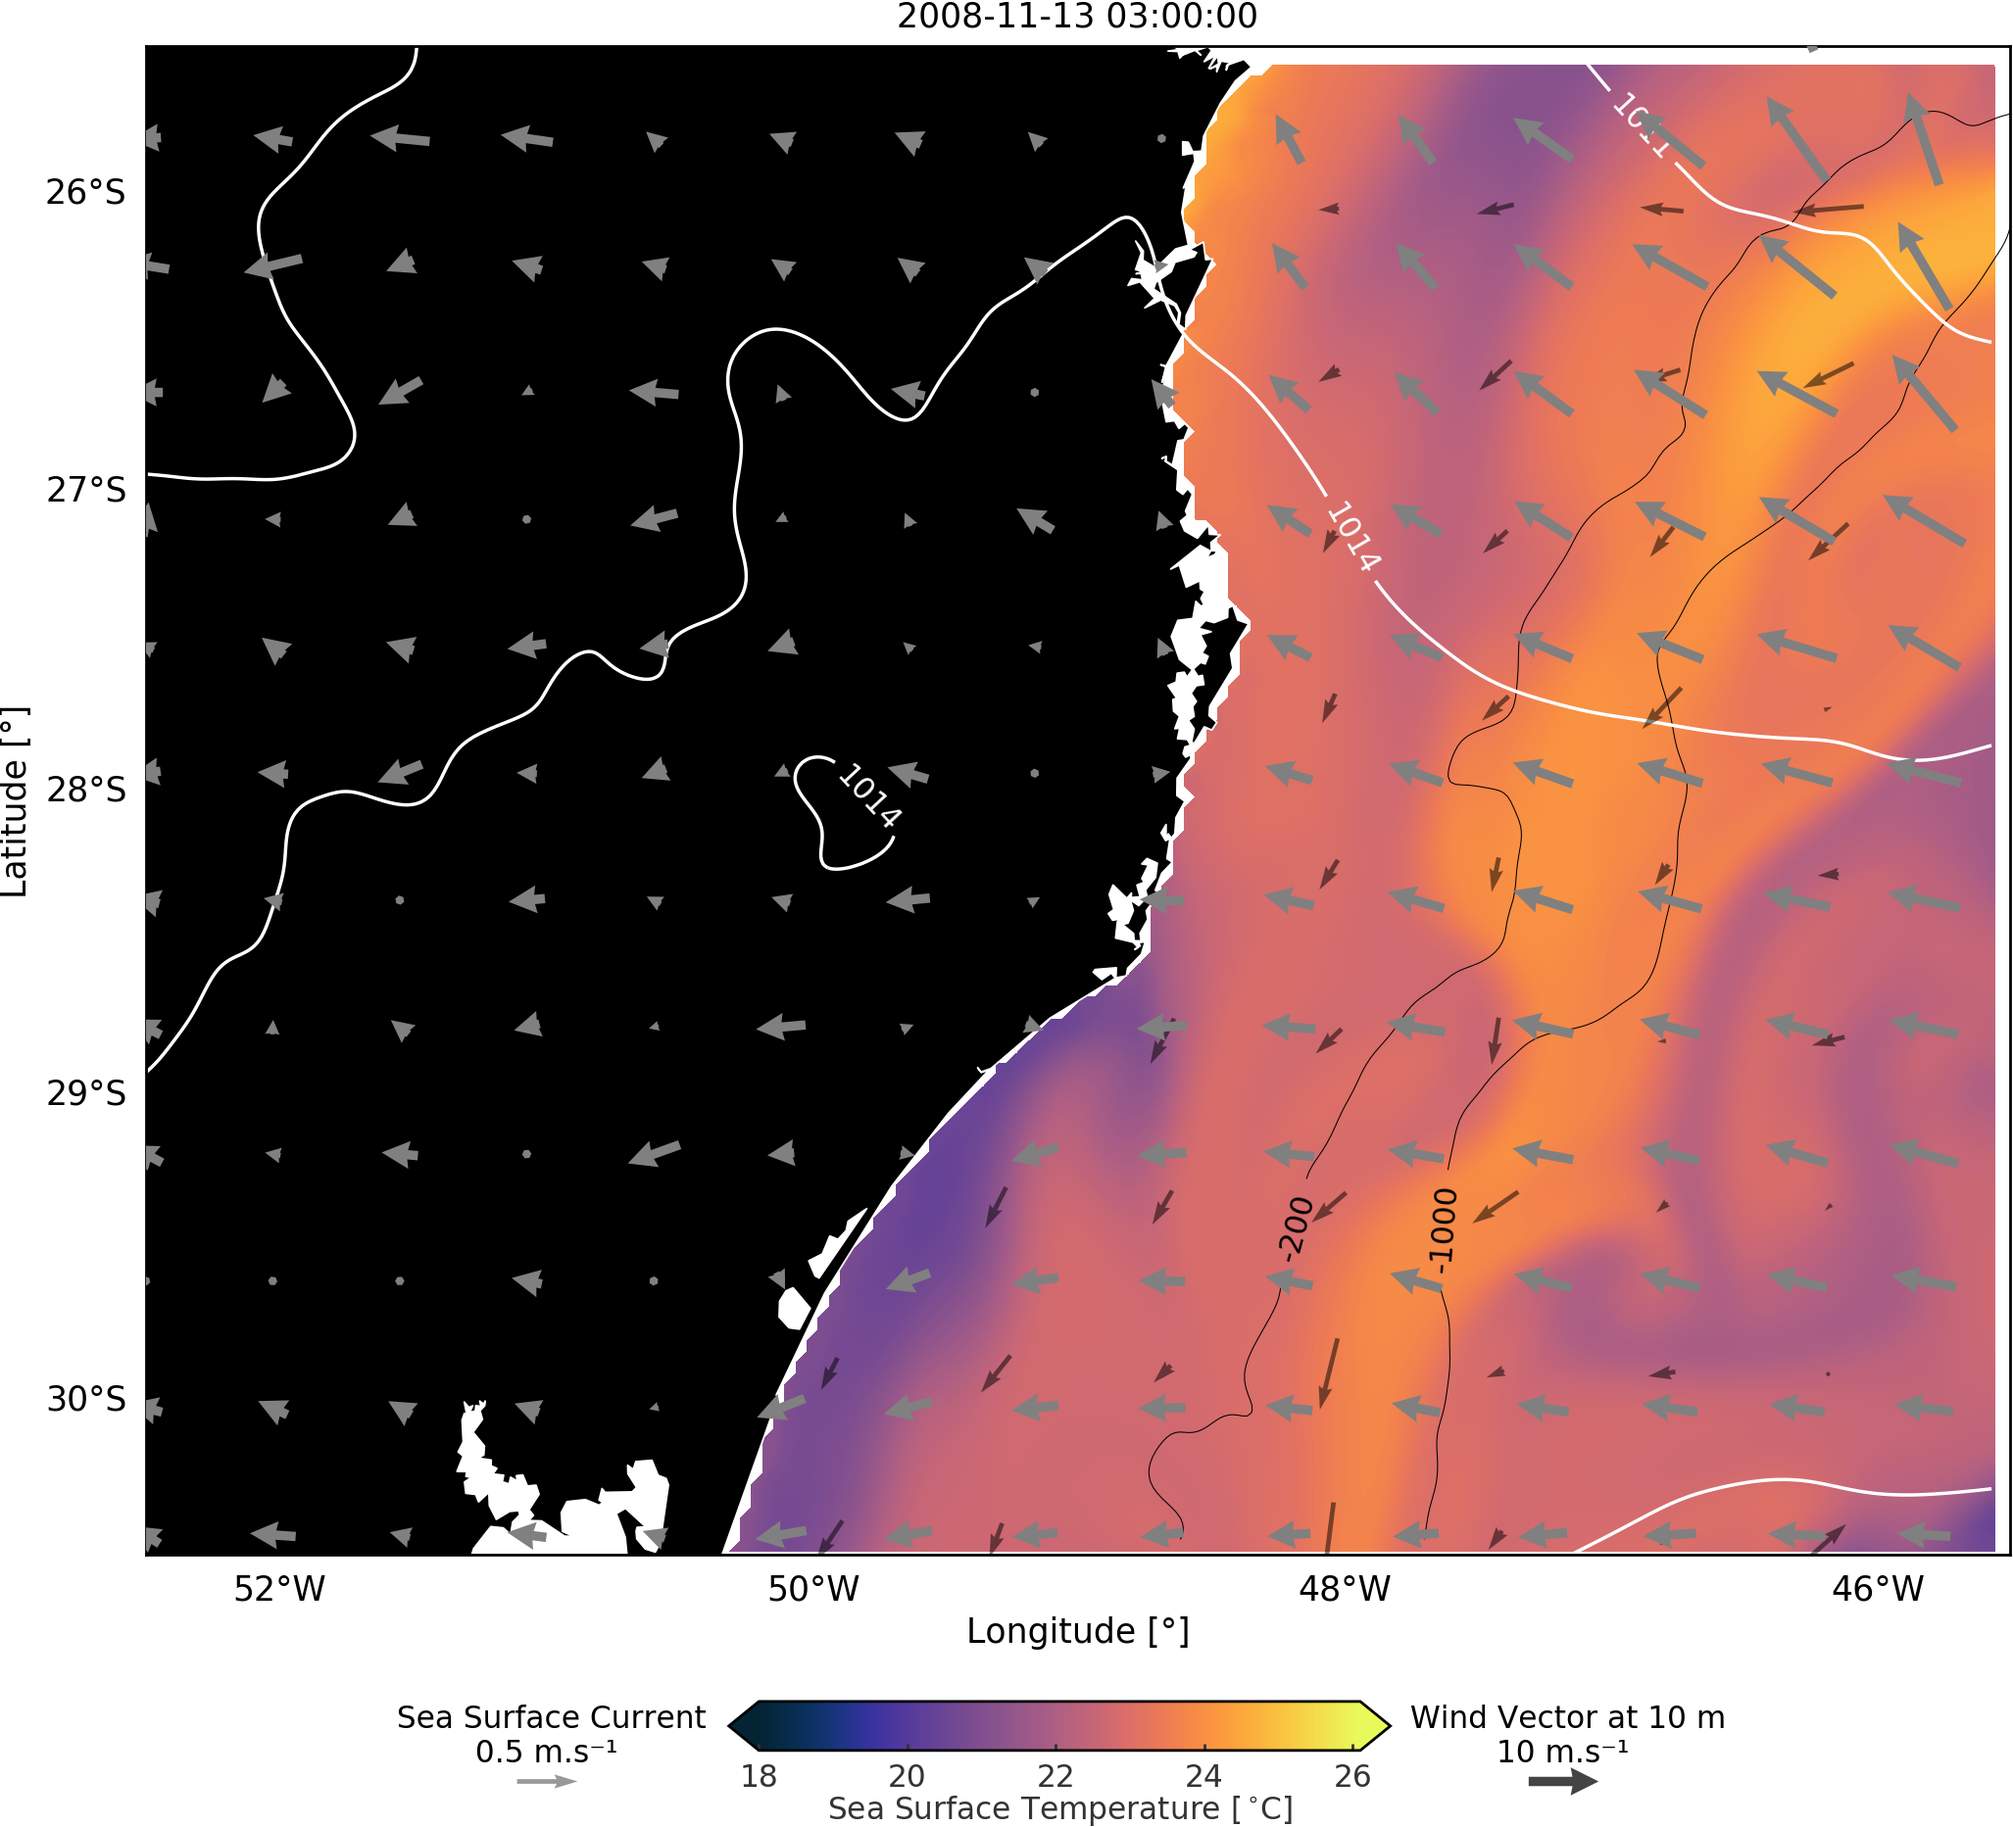
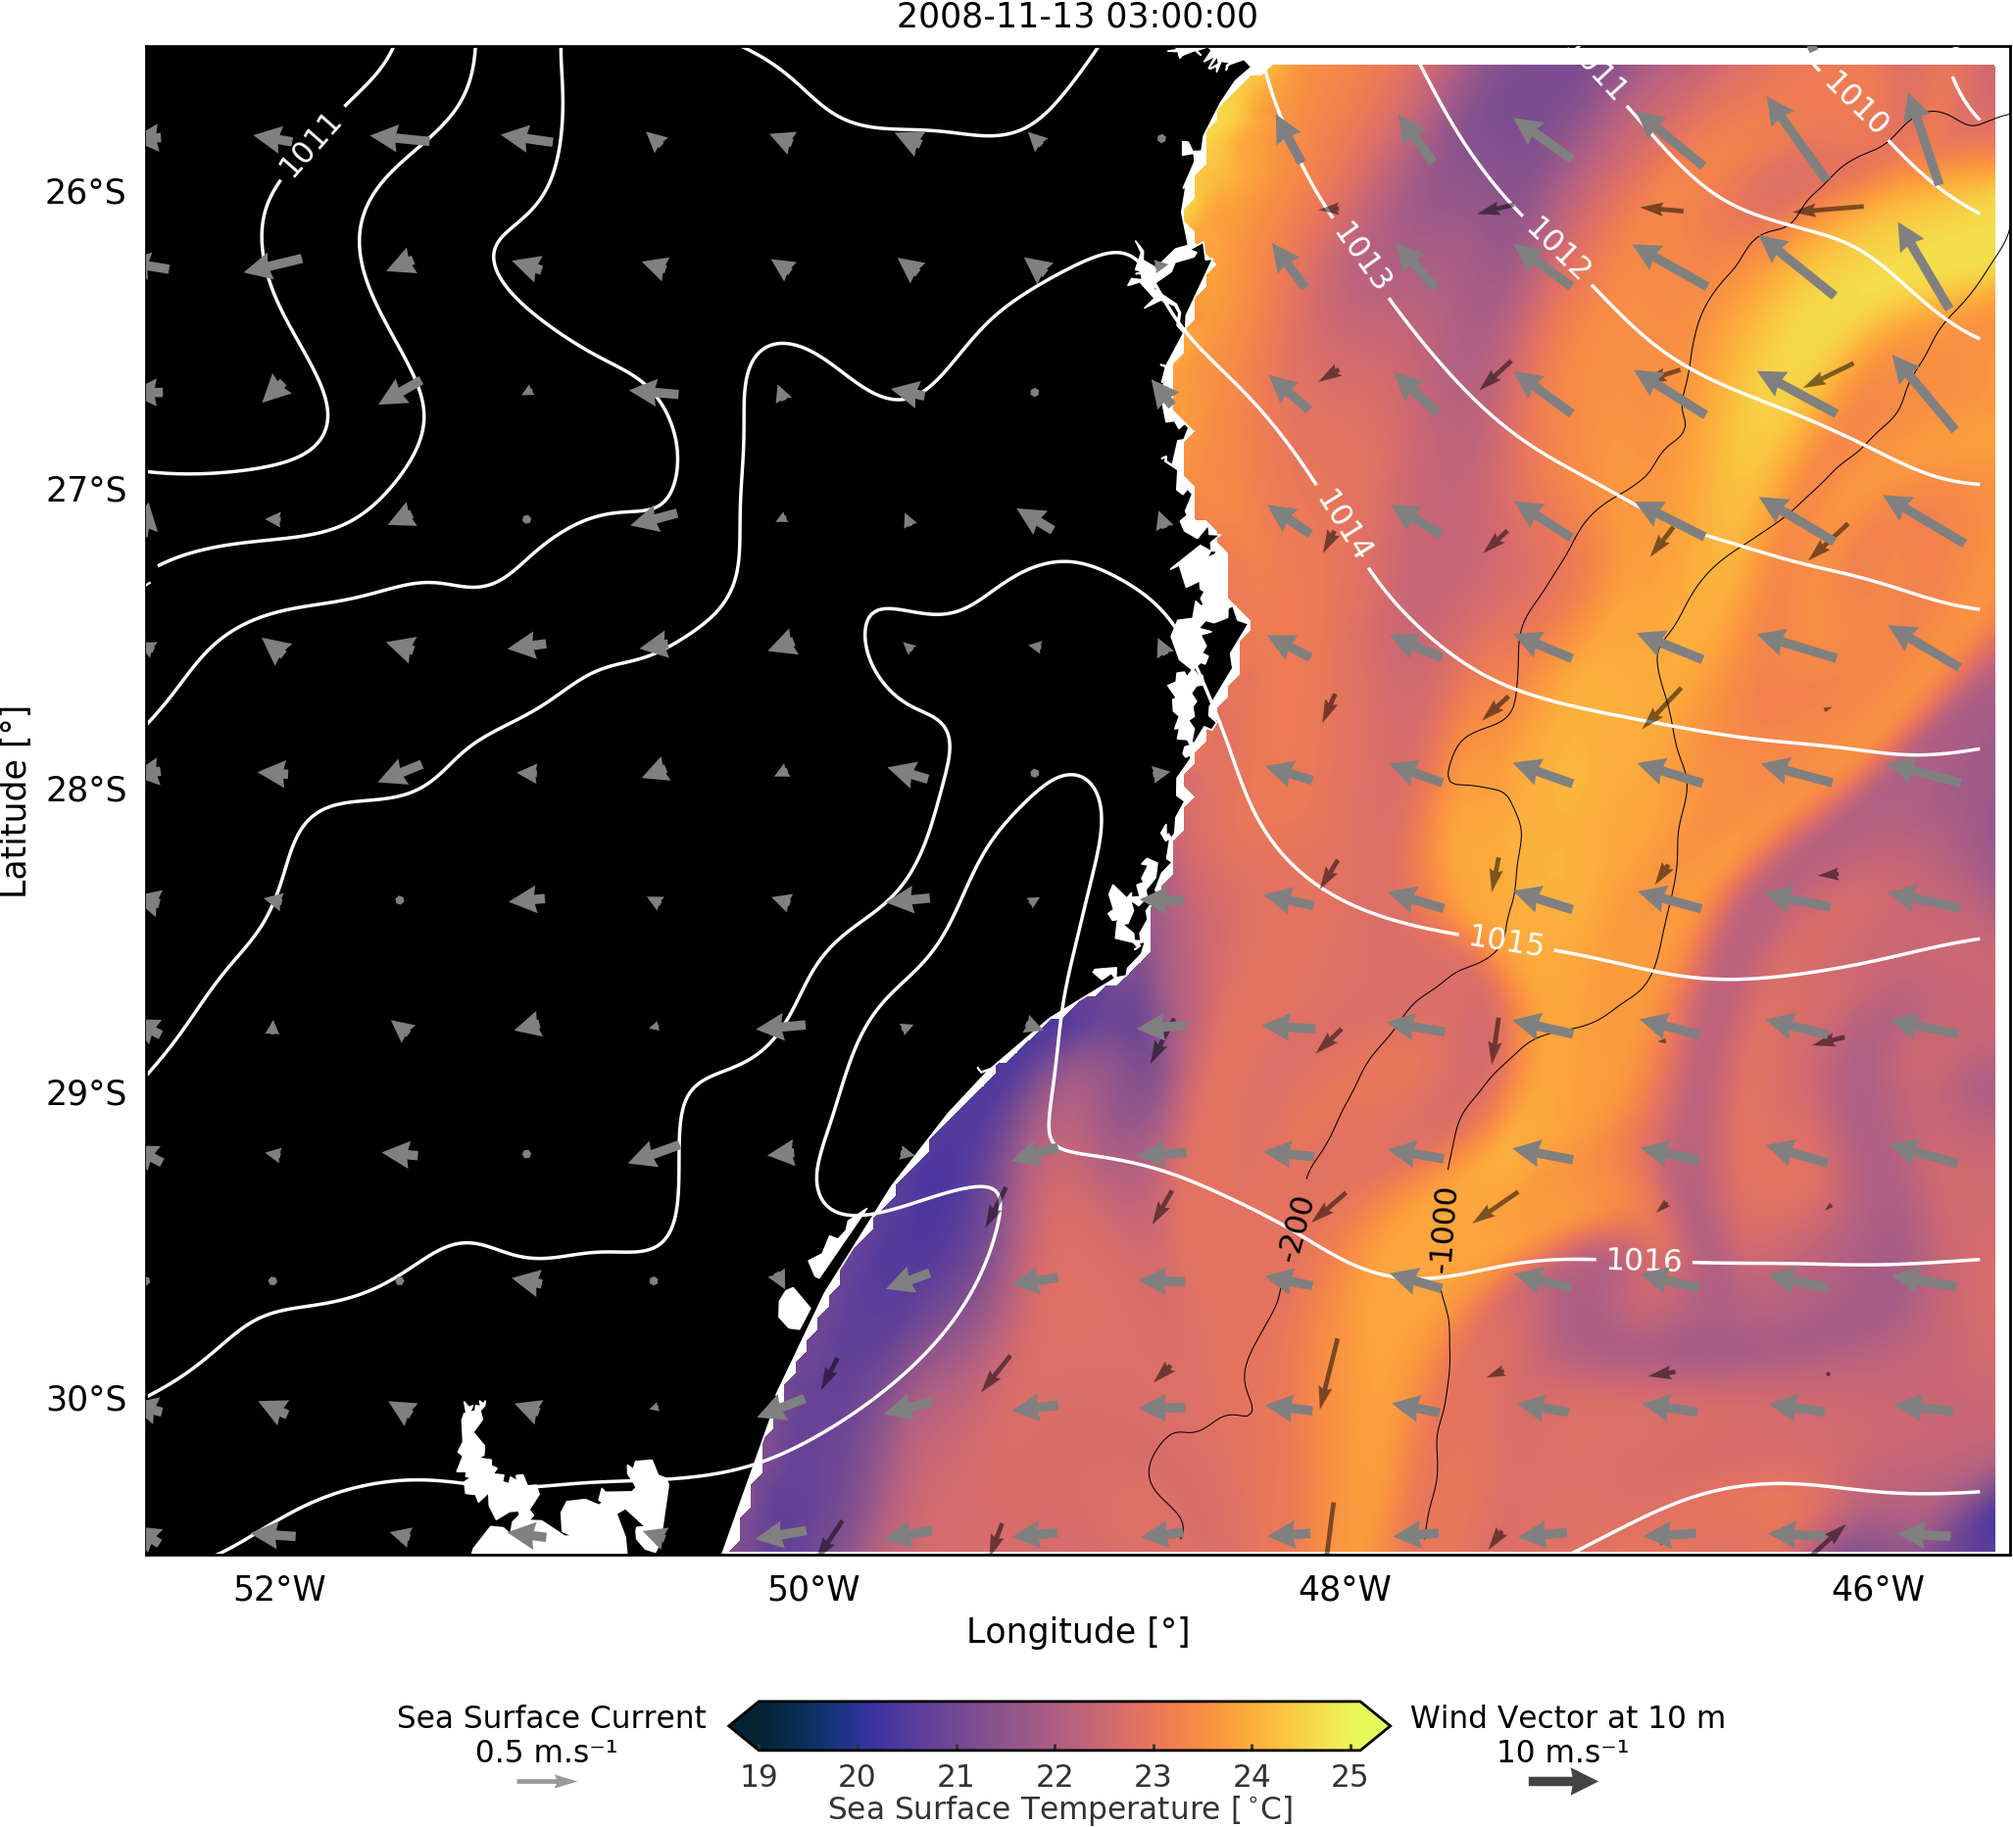
Pushing

diff --git a/horizontal_wrf_roms.py b/horizontal_wrf_roms.py
@@ -10,16 +10,16 @@ Last modified:  13 August 2019
 Version:        3.4
 Python:         3.7.1
 
-Creates horizontal plots from ROMS (his) and WRF-ARW outputs, displaying:
-    - Temperature (Contourf; °C);
-    - Salinity (Contourf; PSU);
-    - Latent Heat Flux (Contourf; W/m-2);
+Create horizontal plots from ROMS (his) and WRF-ARW outputs, displaying:
+    - Sea surface temperature (Contourf; °C);
+    - Sea surface salinity (Contourf; PSU);
+    - Latent heat flux (Contourf; W/m-2);
     - 200 and 1000 meters bathymetry (Contour; m);
     - Wind vectors at 10 m (Vector; m/s);
     - Ocean current at surface (Vector; m/s);
-    - Sea Level Pressure (Contourf; hPa);
-    - Accumulated Total Precipitation (Contourf; mm);
-    - Sea Ice Thickness (Contourf; %).
+    - Sea level pressure (Contourf; hPa);
+    - Accumulated total precipitation (Contourf; mm);
+    - Sea ice thickness (Contourf; %).
 
 bbox = [lon_min,lon_max,lat_min,lat_max]
 """
@@ -87,7 +87,7 @@ if project=='1':
     plot_currents = True
     plot_wind     = True
     plot_slp      = True
-    create_video  = False
+    create_video  = True
     ppt_fig       = False # If True, it will generate a figure with transparent background.
     nc_roms       = netCDF4.Dataset(roms_file)
     nc_wrf        = netCDF4.Dataset(wrf_file)
@@ -151,9 +151,9 @@ for i in range(0,ntimes,3):
         lats_wrf, lons_wrf = latlon_coords(uvmet10)
     if plot_slp==True:
         slp         = getvar(nc_wrf, "slp", i, units="hPa")
-        slp         = smooth2d(slp,30)
+        slp         = smooth2d(slp,120)
         lats_wrf, lons_wrf = latlon_coords(slp)
-        clevs_slp   = np.arange(900,1030,3)
+        clevs_slp   = np.arange(900,1030,1)
     if plot_currents==True:
         lon_rho     = nc_roms.variables['lon_rho'][:]
         lat_rho     = nc_roms.variables['lat_rho'][:]
@@ -177,8 +177,8 @@ for i in range(0,ntimes,3):
             lon_var     = lon_rho[j0:j1, i0:i1]
             lat_var     = lat_rho[j0:j1, i0:i1]
             var         = nc_roms.variables['temp'][i, zlev,  j0:j1, i0:i1]
-            clevs       = np.arange(18,26.1,0.01)
-            ticks       = np.arange(min(clevs),max(clevs),2)  
+            clevs       = np.arange(19,25.1,0.01)
+            ticks       = np.arange(min(clevs),max(clevs),1)  
             cmap        = cmocean.cm.thermal   
         if project=='2' and contourf_var=='2':
             lon_rho     = nc_roms.variables['lon_rho'][:]
@@ -327,7 +327,7 @@ for i in range(0,ntimes,3):
     # 3.7. Plot the desired countour variable and add some plot resources.
     if plot_slp==True:
         x_slp, y_slp = m(to_np(lons_wrf), to_np(lats_wrf))
-        Ct_slp       = ax.contour(gaussian_filter(x_slp,6),gaussian_filter(y_slp,6),gaussian_filter(to_np(slp),6),clevs_slp,colors='white',latlon=True,linewidths=1,linestyles='solid')
+        Ct_slp       = ax.contour(gaussian_filter(x_slp,10),gaussian_filter(y_slp,10),gaussian_filter(to_np(slp),10),clevs_slp,colors='white',latlon=True,linewidths=1,linestyles='solid')
         clbls_slp    = plt.clabel(Ct_slp,fmt='%i',inline=1, fontsize=9)
 
     if plot_var==True:
